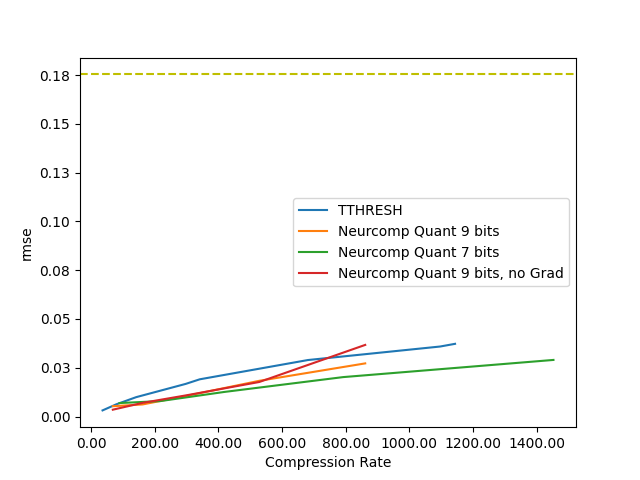
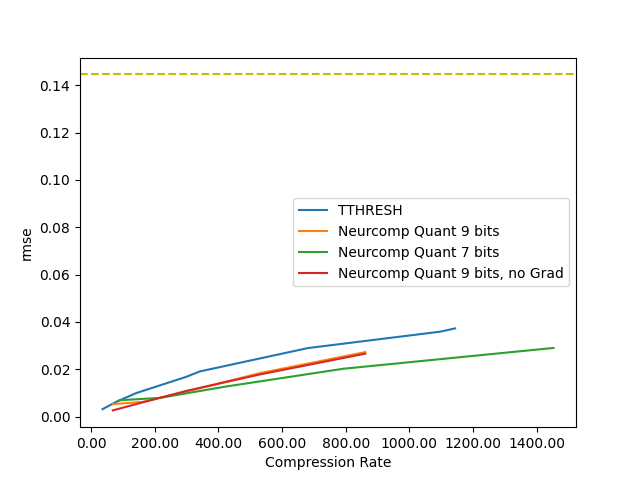
Correct mhd_p plots

diff --git a/visualization/generatecomprPlot.py b/visualization/generatecomprPlot.py
@@ -206,8 +206,8 @@ def rmseTTHRESHExperiment():
     NeurcompQuantRMSEmhd_7 = [0.0069, 0.0079, 0.0126, 0.0202, 0.0290]
     NeurcompQuantCompRatemhd_7 = [89.26451706678941, 217.03086347037342, 418.9702222278372, 791.9840947627349, 1452.7861742673151]
 
-    NeurcompQuantPSNRmhd_p_noGrad9 = [55.1833, 49.1794, 45.2835, 41.0376, 34.7223]
-    NeurcompQuantRMSEmhd_noGrad9 = [0.0035, 0.0070, 0.0109, 0.0177, 0.0367]
+    NeurcompQuantPSNRmhd_p_noGrad9 = [57.679969787597656, 50.457481384277344, 45.28264617919922, 41.036048889160156, 37.52974319458008]
+    NeurcompQuantRMSEmhd_noGrad9 = [0.002612351207062602,0.006000065244734287, 0.01088673621416092, 0.017751192674040794, 0.02657926082611084]
     NeurcompQuantCompRatemhd_noGrad9 = [68.412068076328, 162.14521452145215, 300.6132327746404, 528.6332552245229, 861.3701298701299]
 
     # PSNR no Grad target
@@ -221,7 +221,7 @@ def rmseTTHRESHExperiment():
     tthreshCompRatemhd_p = [36.145, 79.6552, 141.825, 297.357, 341.542, 681.394, 1096.76, 1143.66]
 
     param = 'rmse'#'psnr', 'rmse'
-    datset='Ejecta'
+    datset='mhd_p'
 
     mlClient = MlflowClient()
     expList = mlClient.search_experiments()
@@ -238,9 +238,9 @@ def rmseTTHRESHExperiment():
         realCompRates.append(float(bestrun.data.params['compression_ratio']))
 
     #plt.plot(realCompRates, allRunsData, label='Neurcomp no Quant')
-    plt.plot(tthreshCompRateEjeta, tthreshRMSEEjecta, label='TTHRESH')
-    plt.plot(NeurcompQuantCompRateEjecta9, NeurcompQuantRMSEEjecta9, label='Neurcomp Quant 9 bits')
-    plt.plot(NeurcompQuantCompRateEjecta7, NeurcompQuantRMSEEjecta7, label='Neurcomp Quant 7 bits')
+    #plt.plot(tthreshCompRateEjeta, tthreshRMSEEjecta, label='TTHRESH')
+    #plt.plot(NeurcompQuantCompRateEjecta9, NeurcompQuantRMSEEjecta9, label='Neurcomp Quant 9 bits')
+    #plt.plot(NeurcompQuantCompRateEjecta7, NeurcompQuantRMSEEjecta7, label='Neurcomp Quant 7 bits')
 
     #plt.plot(tthreshCompRateEjeta, tthreshPSNREjecta, label='TTHRESH')
     #plt.plot(NeurcompQuantCompRateEjecta9, NeurcompQuantPSNREjecta9, label='Neurcomp Quant 9 bits')
@@ -251,12 +251,12 @@ def rmseTTHRESHExperiment():
     #plt.plot(NeurcompQuantCompRatemhd_7, NeurcompQuantPSNRmhd_p7, label='Neurcomp Quant 7 bits')
     #plt.plot(NeurcompQuantCompRatemhd_noGrad9, NeurcompQuantPSNRmhd_p_noGrad9, label='Neurcomp Quant 9 bits, no Grad')
 
-    #plt.plot(tthreshCompRatemhd_p, tthreshRMSEmhd_p, label='TTHRESH')
-    #plt.plot(NeurcompQuantCompRatemhd_9, NeurcompQuantRMSEmhd_9, label='Neurcomp Quant 9 bits')
-    #plt.plot(NeurcompQuantCompRatemhd_7, NeurcompQuantRMSEmhd_7, label='Neurcomp Quant 7 bits')
-    #plt.plot(NeurcompQuantCompRatemhd_noGrad9, NeurcompQuantRMSEmhd_noGrad9, label='Neurcomp Quant 9 bits, no Grad')
+    plt.plot(tthreshCompRatemhd_p, tthreshRMSEmhd_p, label='TTHRESH')
+    plt.plot(NeurcompQuantCompRatemhd_9, NeurcompQuantRMSEmhd_9, label='Neurcomp Quant 9 bits')
+    plt.plot(NeurcompQuantCompRatemhd_7, NeurcompQuantRMSEmhd_7, label='Neurcomp Quant 7 bits')
+    plt.plot(NeurcompQuantCompRatemhd_noGrad9, NeurcompQuantRMSEmhd_noGrad9, label='Neurcomp Quant 9 bits, no Grad')
 
-    #plt.axhline(y=0.14457457125146844, color='y', linestyle='--')
+    plt.axhline(y=0.14457457125146844, color='y', linestyle='--')
 
     plt.gca().yaxis.set_major_formatter(FormatStrFormatter('%.2f'))
     plt.gca().xaxis.set_major_formatter(FormatStrFormatter('%.2f'))
@@ -264,7 +264,7 @@ def rmseTTHRESHExperiment():
     plt.ylabel(param)
     plt.legend()
     
-    filepath = 'plots/'+datset+'_TTHRESH_'+param+'NoSTD.png'
+    filepath = 'plots/'+datset+'_TTHRESH_'+param+'.png'
     plt.savefig(filepath)
 
 def paramExperiment():
